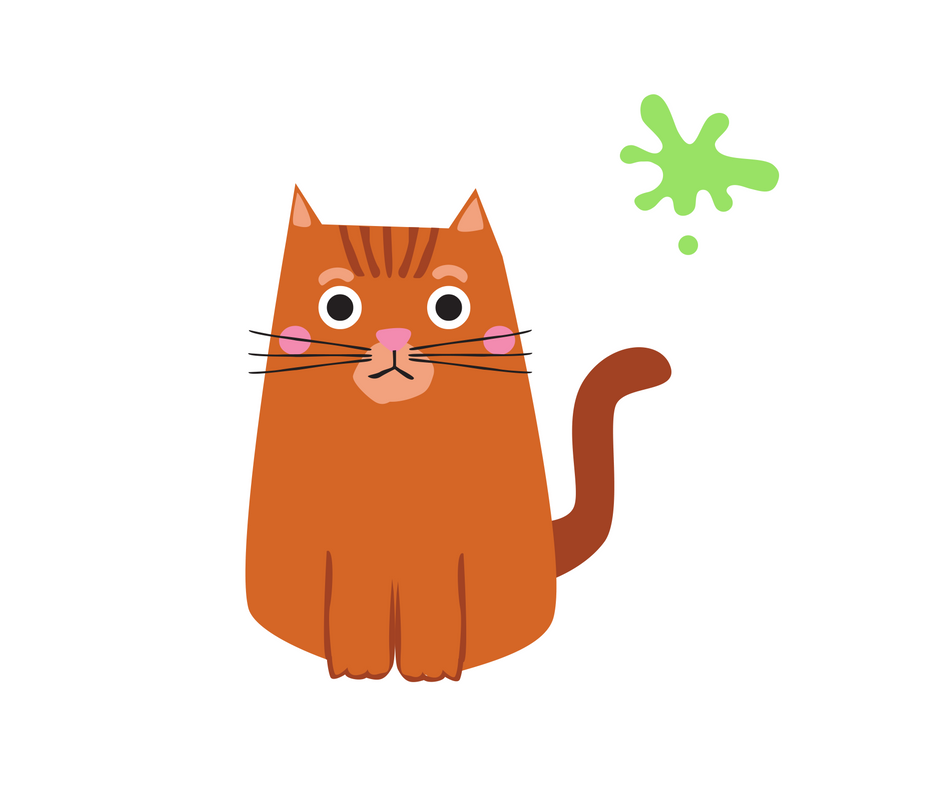
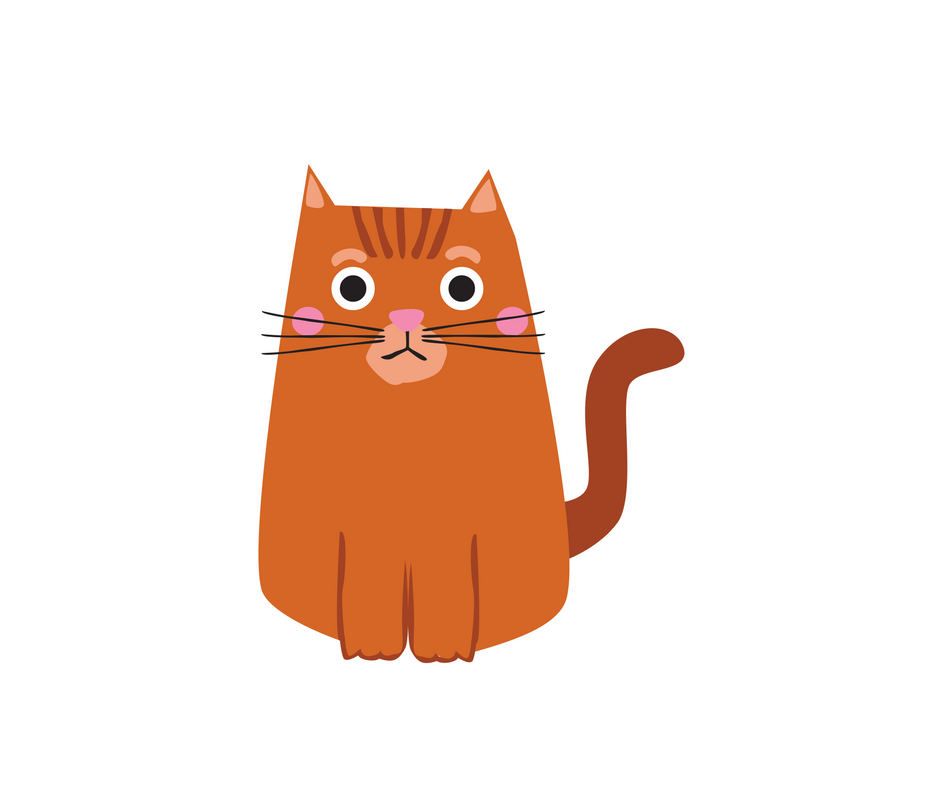
added purrrfect images

Changed region(s): [[0.2468, 0.2132, 0.7404, 0.8832], [0.6479, 0.1218, 0.833, 0.2741], [0.7096, 0.3046, 0.7404, 0.335]]

diff --git a/game_index.html b/game_index.html
@@ -3,39 +3,41 @@
 <head>
 	<meta charset="UTF-8">
 
-	<title>Hangman</title>
+	<title>CAT GOT YOUR TONGUE?</title>
 
 	<link rel="stylesheet" type="text/css" href="assets/css/reset.css">
+	<link rel="stylesheet" type="text/css" href="assets/css/style.css">
 	<link rel="stylesheet" type="text/css" href="https://maxcdn.bootstrapcdn.com/bootswatch/3.3.7/flatly/bootstrap.min.css">
-	<!-- <link rel="stylesheet" type="text/css" href="assests/css/style.css"> -->
-	<!-- <link rel="stylesheet" type="text/javascript" href="assets/javascript/game.js"> -->
+	
 	
 </head>
 <body>
 	
-	<header>
-		<img src="" alt="">
-		<h1 class="text-center">IT'S IDIOM HANGMAN!</h2>
-		<h2 class="text-center"><em>"Take a stab at it!"</em></h2>
-		<h3 id="gameHeader"></h3>
+	<header id="gameHeader">
+		<h1 class="text-center">IT'S AN IDIOM --GUESS THE PHRASE<br>BEFORE THE CAT RUNS AWAY</h1>
+		<h6 class="text-center">Non-Hanging-Hangman Game.</h6>
+		<hr>
+		<h2 class="text-center">PRESS ANY KEY TO START</h2>
+		<br>
+		
 	</header>
 
-	<div class="container">
+	<div class="container-fluid">
 		<div class="row">
 			<div class="col-sm-2">
 			</div>
-			<div class="col-sm-4 panel panel-default">
-				<img class="img-rounded img responsive center-block" id="gameImage" src="http://placehold.it/150x150">
+			<div class="col-sm-4 imageDiv">
+				<img id="cat" src="assets/images/purrrfect/1.png">
 			</div>	
-			<div class="col-sm-4 panel panel-default">
-	  			<p>Press any key to start!</p>
-				<p>Wins</p>
+			<div class="col-sm-4 panel panel-default" style="top:30px;">
+	  			
+				<p>Wins:</p>
 				<p id="totalWins"></p> 
-				<p>Current Word</p>
+				<p>What's That Phrase:</p>
 				<p id="currentWord"></p>
-				<p>Number of Guesses Remaining</p>
+				<p>Number of Guesses Remaining:</p>
 				<p id="guessesRemaining"></p> 
-				<p>Letters Already Guessed</p>
+				<p>Letters Already Guessed:</p>
 				<p id="alreadyGuessed"></p>
 			</div>
 			<div class="col-sm-2">
@@ -45,88 +47,7 @@
 
 </body>
 
-	<script type="text/javascript"> //src="game.js"> 
-		
-	var wins = 0;
-	var wordOptions = ["your guess is as good as mine", "a little bird told me", "heard it through the grapevine", "piece of cake", "once in a blue moon", "method to my madness", "it takes two to tango", "at the drop of a hat"];
-	var randomWord = wordOptions[Math.floor(Math.random() * wordOptions.length)];
-	var numGuess = 6;
-	var incorrectLetters = [];
-	var currentWord = [];
-
-	// document.querySelector("#numWins").innerHTML = wins;
-
-
-	for (var i = 0; i < randomWord.length; i++) {
-		if (randomWord[i] === " ") {
-			currentWord.push("&nbsp;");
-		}	
-		else {
-			currentWord.push("_");
-		}	
-	}
-
-	console.log(randomWord);
-	console.log(currentWord);
-
-	//THIS CODE BELOW CREATES VISUAL CHANGE: REMOVING COMMAS AFTER SPACE ((FROM THIS: "__," TO THIS: "__" ))//
-	
-	var currentWordHTML = currentWord.join(" ");
-	
-	document.querySelector("#currentWord").innerHTML = currentWordHTML;
-	
-	// THIS CODE SHOWS THE NUMBER OF GUESS REMAINING //
-
-	document.querySelector("#guessesRemaining").innerHTML = numGuess;
-
-	// STARTS THE GAME ONCE USER PRESSES KEY //
-
-	document.onkeyup= function(event) {
-		var userGuess = String.fromCharCode(event.keyCode).toLowerCase();
-
-		// IF USER PICKS A CORRECT LETTER //
-		if (randomWord.indexOf(userGuess) >= 0) {
-			console.log("Correct");
-			for (var i = 0; i < randomWord.length; i++) {
-				if (randomWord[i] === userGuess) {
-					currentWord[i] = userGuess;
-				}
-			}
-			currentWordHTML = currentWord.join(" ");
-			document.querySelector("#currentWord").innerHTML = currentWordHTML;
-		}
-
-			// IF USER PICKS LETTER ALREADY USED //
-		else if (incorrectLetters.indexOf(userGuess) >= 0){
-			console.log("Already Guessed");
-		}
-			// IF USER PICKS A WRONG LETTER //
-		else{
-			numGuess --; 
-			incorrectLetters.push(userGuess);
-			
-			document.querySelector("#guessesRemaining").innerHTML = numGuess;		
-
-			incorrectLetters.push(userGuess);
-
-			incorrectLettersHTML = incorrectLetters.join(" ");
-			document.querySelector("#incorrectLetters").innerHTML = incorrectLettersHTML;
-
-
-		
-			console.log("Wrong");
-			console.log(incorrectLetters);
-			
-			
-		}		//THIS CODE BELOW = USER CHANGED GUESSES AND 			NOW IT WILL REDISPLAY IT//
-	}			//	document.querySelector("#guessesRemaining").			innerHTML = numGuess;
-				
-				//incorrectLetters.push(userGuess);
-			
-				//document.querySelector("#alreadyGuessed").innerHTML = incorrectLetters;
-		
-	
-
+	<script src="assets/javascript/game.js">
 	</script>
 	</body>
 </html>

diff --git a/assets/javascript/game.js b/assets/javascript/game.js
@@ -1,5 +1,18 @@
+// THIS IS JS - :SCREAM: EMOJI 
+
 var wins = 0;
-var wordOptions = ["your guess is as good as mine", "a little bird told me", "heard it through the grapevine", "piece of cake", "once in a blue moon", "method to my madness", "it takes two to tango", "at the drop of a hat"];
+
+var wordOptions = [ 
+		"YOUR GUESS IS AS GOOD AS MINE",
+		"A LITTLE BIRD TOLD ME",
+		"HEARD IT THROUGH THE GRAPEVINE",
+		"PIECE OF CAKE",
+		"ONCE IN A BLUE MOON",
+		"METHOD TO MY MADNESS", 
+		"IT TAKES TWO TO TANGO", 
+		"AT THE DROP OF A HAT"
+		];
+
 var randomWord = wordOptions[Math.floor(Math.random() * wordOptions.length)];
 var numGuess = 6;
 var incorrectLetters = [];
@@ -20,22 +33,29 @@ var currentWord = [];
 	console.log(randomWord);
 	console.log(currentWord);
 
-	//THIS CODE BELOW CREATES VISUAL CHANGE: REMOVING COMMAS AFTER SPACE ((FROM THIS: "__," TO THIS: "__" ))//
+	// THIS CODE BELOW CREATES VISUAL CHANGE: REMOVING COMMAS AFTER SPACE --> FROM THIS: "__," TO THIS: "__" !!! 
 	
 	var currentWordHTML = currentWord.join(" ");
 	
 	document.querySelector("#currentWord").innerHTML = currentWordHTML;
 	
-	// THIS CODE SHOWS THE NUMBER OF GUESS REMAINING //
+	// THIS CODE SHOWS THE NUMBER OF GUESS REMAINING. 
 
 	document.querySelector("#guessesRemaining").innerHTML = numGuess;
 
-	// STARTS THE GAME ONCE USER PRESSES KEY //
+	// STARTS THE GAME ONCE USER PRESSES KEY CHANGING DEFAULT IMAGE TO GAME IMAGE 2, AND SO ON... 
 
 	document.onkeyup= function(event) {
-		var userGuess = String.fromCharCode(event.keyCode).toLowerCase();
 
-		// IF USER PICKS A CORRECT LETTER //
+		if (numGuess == 6) {
+			document.querySelector(".imageDiv").innerHTML = '<img id="smiley" src="assets/images/smiley/2.png">'
+		}
+
+		
+		var userGuess = String.fromCharCode(event.keyCode).toUpperCase();
+
+		// IF USER PICKS A CORRECT LETTER: 
+
 		if (randomWord.indexOf(userGuess) >= 0) {
 			console.log("Correct");
 			for (var i = 0; i < randomWord.length; i++) {
@@ -47,23 +67,62 @@ var currentWord = [];
 			document.querySelector("#currentWord").innerHTML = currentWordHTML;
 		}
 
-			// IF USER PICKS LETTER ALREADY USED //
+		// IF USER PICKS LETTER ALREADY USED: 
+
 		else if (incorrectLetters.indexOf(userGuess) >= 0){
 			console.log("Already Guessed");
 		}
-			// IF USER PICKS A WRONG LETTER //
-		else{
+
+		// IF USER PICKS A WRONG LETTER: 
+
+		else {
 			numGuess --; 
 			incorrectLetters.push(userGuess);
 			
 			document.querySelector("#guessesRemaining").innerHTML = numGuess;		
 
-			incorrectLetters.push(userGuess);
-
 			incorrectLettersHTML = incorrectLetters.join(" ");
-			document.querySelector("#incorrectLetters").innerHTML = incorrectLettersHTML;
+			document.querySelector("#alreadyGuessed").innerHTML = incorrectLettersHTML;
 
+			if (numGuess == 5) {
+			document.querySelector(".imageDiv").innerHTML = '<img id="cat" src="assets/images/purrrfect/2.png">'
+			}
 
+			else if (numGuess == 4) {
+				document.querySelector(".imageDiv").innerHTML = '<img id="cat" src="assets/images/purrrfect/3.png">'
+			}
+
+			else if (numGuess == 3) {
+				document.querySelector(".imageDiv").innerHTML = '<img id="cat" src="assets/images/purrrfect/4.png">'
+			}
+
+			else if (numGuess == 2) {
+				document.querySelector(".imageDiv").innerHTML = '<img id="cat" src="assets/images/purrrfect/5.png">'
+			}
+
+			else if (numGuess == 1) {
+				document.querySelector(".imageDiv").innerHTML = '<img id="cat" src="assets/images/purrrfect/6.png">'
+			}
+
+			else if (numGuess == 0) {
+				document.querySelector(".imageDiv").innerHTML = '<img id="cat" src="assets/images/purrrfect/7.png">'
+			}
+
+			//else if (numGuess == -1) {
+				//document.querySelector(".imageDiv").innerHTML = '<img id="smiley" src="assets/images/smiley/9.png">'
+			//}
+
+	// GAME USER LOST -- SO LET'S PLAY AGAIN!!! 
+
+			function playAgain() {
+		    var x;
+		    if (confirm("PLAY AGAIN?") == true) {
+		        x = "You pressed OK!";
+		    } else {
+		        x = "You pressed Cancel!";
+		    }
+		    document.getElementById("demo").innerHTML = x;
+		}
 		
 			console.log("Wrong");
 			console.log(incorrectLetters);

diff --git a/assets/css/style.css b/assets/css/style.css
@@ -1,0 +1,9 @@
+#cat {
+	height: 400px;
+	width: 400px;
+}
+
+h6 {
+	font-size: 5px;
+	letter-spacing: 5px;
+}
